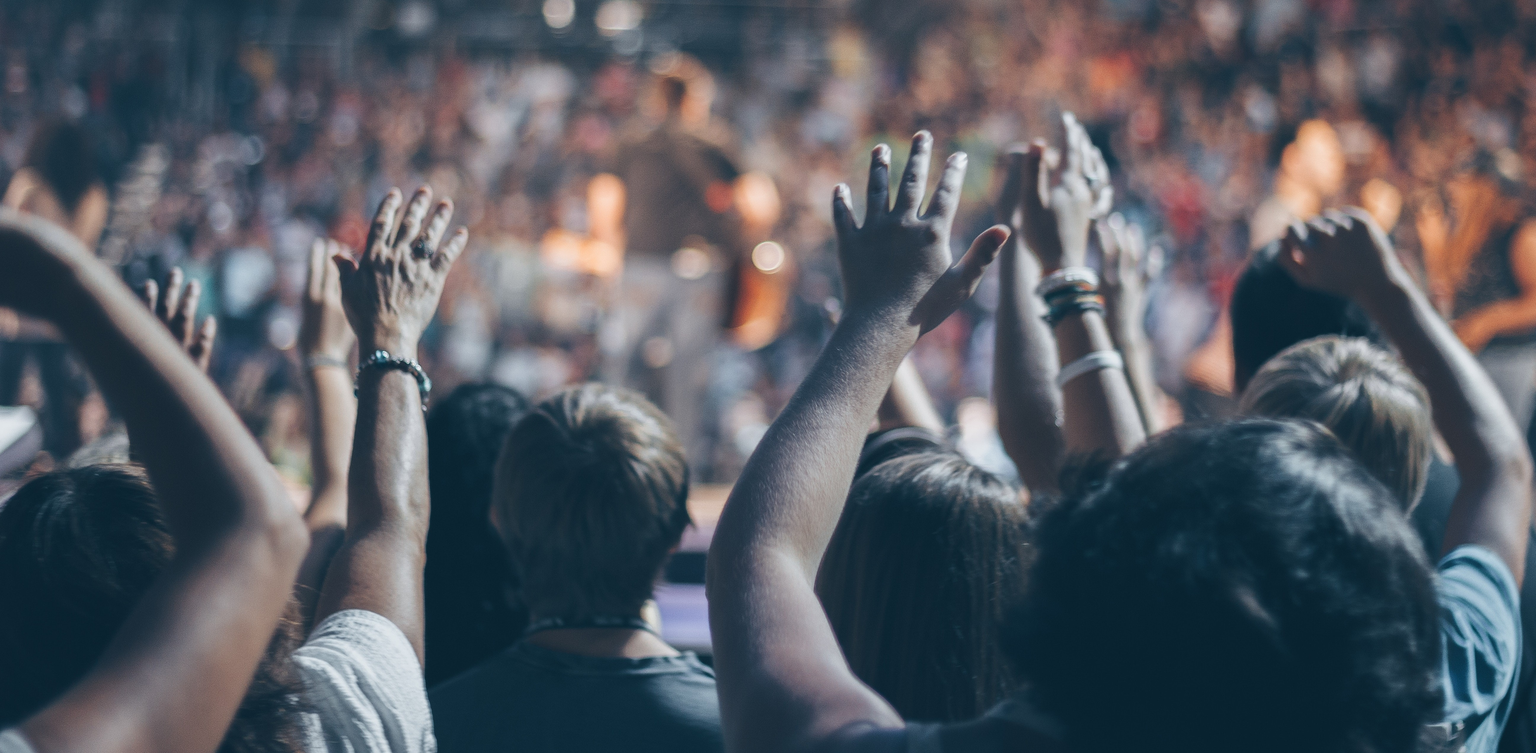
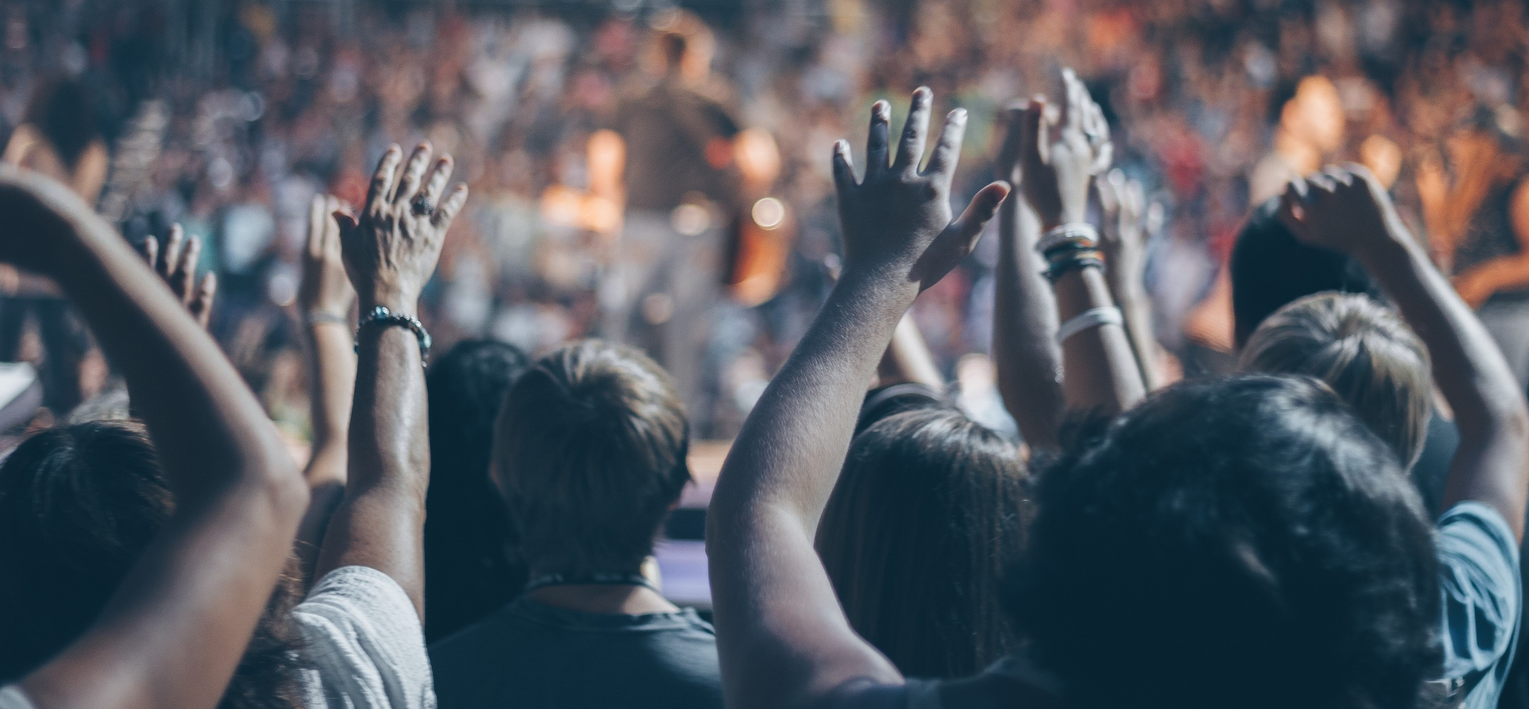
carrusel ok

diff --git a/assets/styles/styles.css b/assets/styles/styles.css
@@ -10,7 +10,9 @@
 main {
   height: relative;
 }
-
+.d-block {
+  height: 36.15vw;
+}
 .text-center {
   color: #1282a2;
   font-size: 2.4rem;
